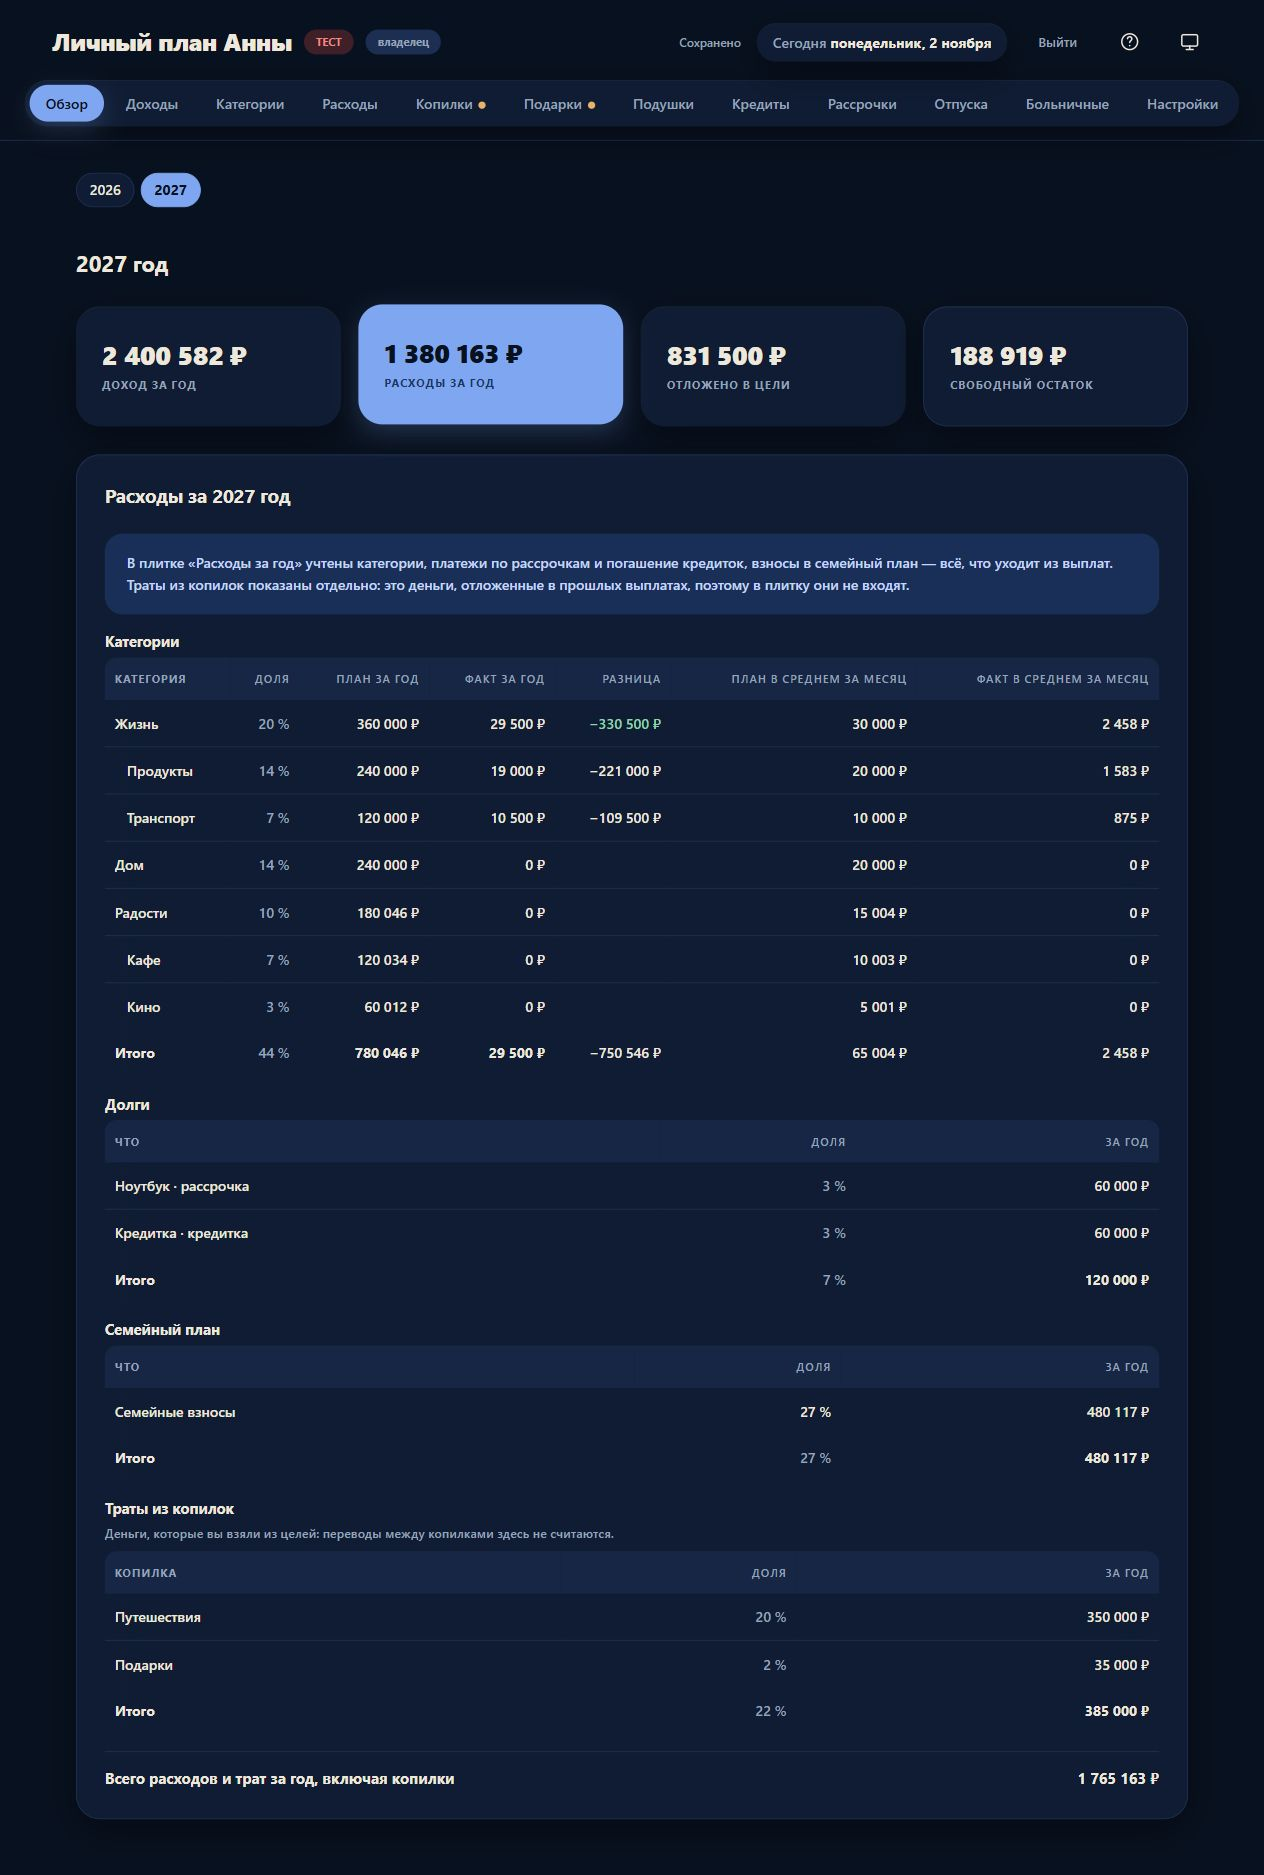
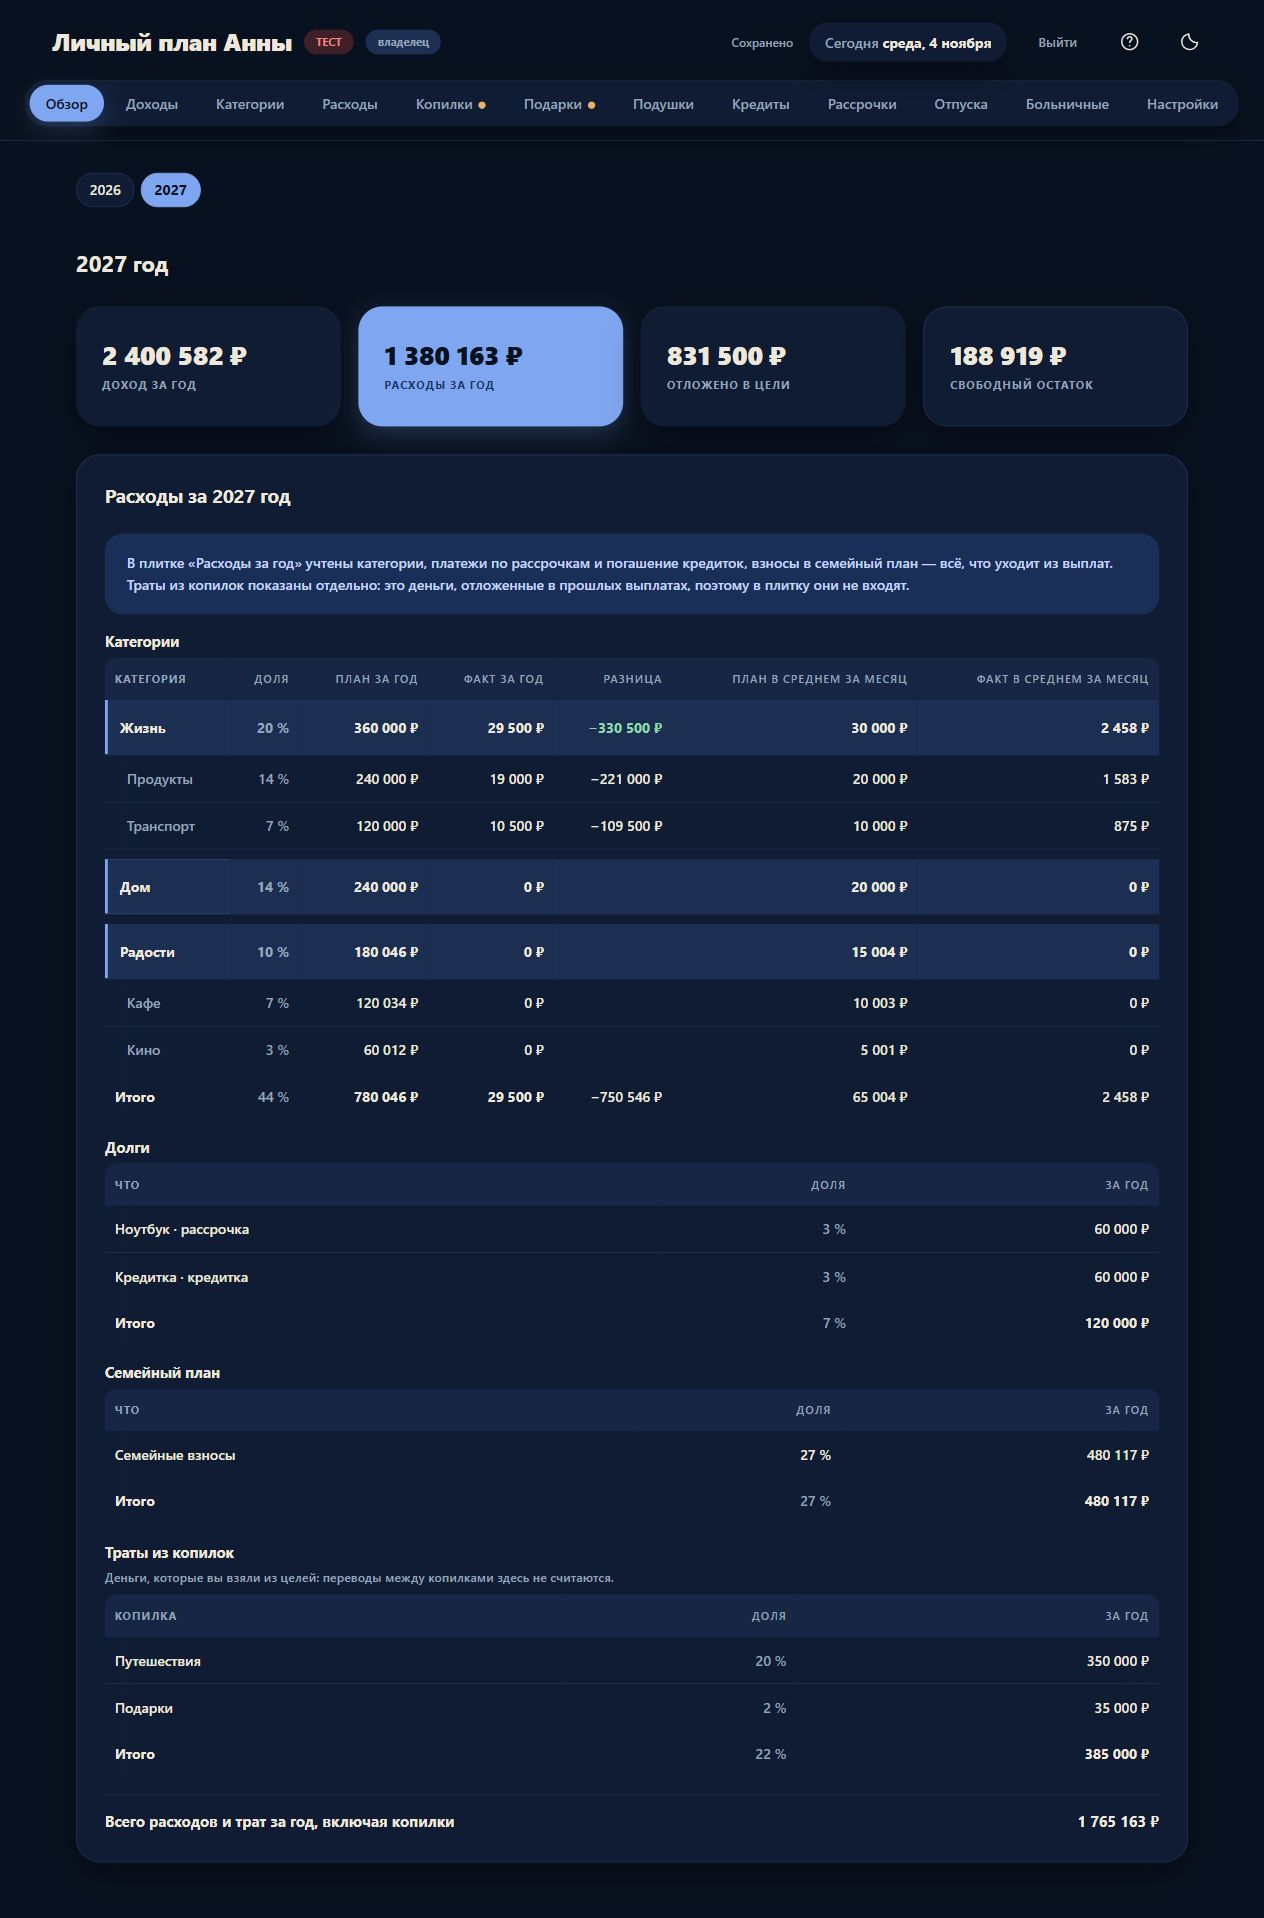
Обзор Расходы тюнинг

diff --git a/help/index.html b/help/index.html
@@ -86,8 +86,8 @@
         <p>В таблице доходов сначала идут автоматические выплаты с названиями из графика этого года, затем их итог «Всего», разовые выплаты и «Общий доход». Внизу — суммы за год. Если автоматическая выплата одна, соответствующий столбец тоже один.</p>
         <p>Нажмите значок информации у суммы, чтобы увидеть начисление до налога, ставки и удержанный налог. Справка также показывает отпускные и больничный по их фактическим датам поступления. Эти справочные суммы уже включены в распределённые доходы: второй раз прибавлять их к итогу не нужно.</p>
         <p>Автоматические выплаты относятся к расчётным месяцам, разовые — к месяцу поступления. Поэтому зарплата за декабрь с выплатой в январе требует внимания к расчётному году и месяцу, а не только к дате на карточке.</p>
-        <h3>Расходы по категориям и подкатегориям</h3><p>Нажмите плитку «Расходы за год». Под категориями показаны их статьи и подкатегории, годовой план, факт и разница. Колонки среднего в деньгах показывают <b>годовую сумму, делённую на 12</b>, включая нулевые месяцы. Например, план 120 000 ₽ за год — это в среднем 10 000 ₽ в месяц. Итоги суммируют категории один раз: строки подкатегорий раскрывают их состав.</p>
-        <figure><a href="images/overview-expenses.jpg" data-enlarge><img src="images/overview-expenses.jpg" alt="Расходы Обзора с подкатегориями и средними месячными суммами плана и факта" loading="lazy" width="1264" height="1875"></a><figcaption>План и факт каждой категории и подкатегории дополнены средним за 12 месяцев.</figcaption></figure>
+        <h3>Расходы по категориям и подкатегориям</h3><p>Нажмите плитку «Расходы за год». Строки категорий выделены фоном, жирным шрифтом и цветной полоской слева; между группами оставлен промежуток. Под ними показаны статьи и подкатегории, годовой план, факт и разница. Колонки среднего в деньгах показывают <b>годовую сумму, делённую на 12</b>, включая нулевые месяцы. Например, план 120 000 ₽ за год — это в среднем 10 000 ₽ в месяц. Итоги суммируют категории один раз: строки подкатегорий раскрывают их состав.</p>
+        <figure><a href="images/overview-expenses.jpg" data-enlarge><img src="images/overview-expenses.jpg" alt="Расходы Обзора с подкатегориями и средними месячными суммами плана и факта" loading="lazy" width="1264" height="1918"></a><figcaption>План и факт каждой категории и подкатегории дополнены средним за 12 месяцев.</figcaption></figure>
       </section>
 
       <section id="income" data-guide-section data-keywords="доходы выплата разовая премия подработка подарок формула ручной border закрепить распределить свободный остаток">

diff --git a/src/ui/dashboard.js b/src/ui/dashboard.js
@@ -67,7 +67,7 @@ function expensesView(ctx, rows) {
     const unassigned=facts.filter(x=>x.category_id===c.id&&!x.item_key).reduce((s,x)=>s+Number(x.amount||0),0);
     const unassignedPlan=Math.max(0,p-children.reduce((s,i)=>s+(itemPlans.get(i.id)||0),0));
     if(sub.length&&(unassigned||unassignedPlan>.5))sub.push(childLine('Без подкатегории',unassignedPlan,unassigned));
-    return `<tr>
+    return `<tr class="annual-expense-category">
       <td>${esc(c.title)}</td><td class="num muted">${esc(share(p))}</td>
       <td class="num">${esc(fmt.money(p))}</td><td class="num">${esc(fmt.money(f))}</td>
       <td class="num" style="${diff > 0 ? 'color:var(--danger);' : diff < 0 ? 'color:var(--good);' : ''}">${f ? esc(fmt.money(diff, undefined, { sign: true })) : ''}</td>
@@ -111,7 +111,7 @@ function expensesView(ctx, rows) {
         и погашение кредиток${family ? ', взносы в семейный план' : ''} — всё, что уходит из выплат. Траты из копилок показаны отдельно: это деньги,
         отложенные в прошлых выплатах, поэтому в плитку они не входят.</div>
       ${catRows.length ? `<h3 style="margin:18px 0 6px;font-size:15px;">Категории</h3>
-        ${table({ head: ['Категория', { title: 'Доля', cls: 'num' }, { title: 'План за год', cls: 'num' },
+        ${table({ cls: 'annual-expenses', head: ['Категория', { title: 'Доля', cls: 'num' }, { title: 'План за год', cls: 'num' },
           { title: 'Факт за год', cls: 'num' }, { title: 'Разница', cls: 'num' },{title:'План в среднем за месяц',cls:'num'},{title:'Факт в среднем за месяц',cls:'num'}],
           rows: catRows,
           foot: `<tr><td><b>Итого</b></td><td class="num muted">${esc(share(catPlan))}</td>

diff --git a/src/ui/styles.css b/src/ui/styles.css
@@ -207,6 +207,17 @@ input:disabled,select:disabled{background:var(--surface-3);color:var(--muted);cu
 .dash-tile.active .v{color:var(--on-accent);}
 .dash-tile.active .l{color:var(--on-accent-muted);}
 .table-scroll{overflow-x:auto;}
+
+/* Годовые расходы: категория — заметный итог группы, ниже её состав. */
+#root .annual-expenses .annual-expense-category>td{
+  background:var(--surface-3);font-weight:700;padding-block:16px;
+  border-top:10px solid var(--surface);
+}
+#root .annual-expenses .annual-expense-category:first-child>td{border-top:0;}
+#root .annual-expenses .annual-expense-category>td:first-child{
+  box-shadow:inset 3px 0 var(--accent);padding-left:15px;
+}
+#root .annual-expenses .fact-item>td:first-child{color:var(--muted);}
 .progress > i.year-start{position:absolute;left:0;top:0;height:100%;background:var(--accent);opacity:.35;border-radius:inherit;}
 /* факт против плана: меньше плана — мягкий зелёный, ±5% — обычный фон, больше плана — мягкий красный */
 .fact-under td{background:var(--good-soft);}
